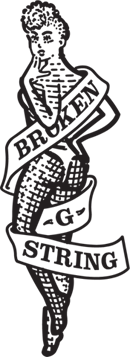
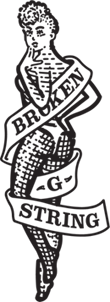
img fix gah

diff --git a/app/assets/stylesheets/core.css b/app/assets/stylesheets/core.css
@@ -35,6 +35,7 @@ html.home{
 }
 
 #home{
+	margin-top: 25px;
 	padding-bottom: 50px;
 }
 
@@ -44,13 +45,14 @@ html.home{
 }
 
 #home .hero{
-	/*width: 100%;*/
-	height: 450px;
+	width: 500px;
+	height: 352px;
 	background: url(/assets/refer/Grefer/home_logo.png) center center no-repeat;
-	background-size: 450px 300px;
+	background-size: 500px 352px;
 	overflow: hidden;
 	position: relative;
 	letter-spacing: .09em;
+	margin-top: 15px;
 	margin: 0 auto;
 }
 
@@ -308,10 +310,10 @@ html.home{
 }
 
 #refer .mammoth{
-	width: 130px;
-	height: 357px;
+	width: 110px;
+	height: 302px;
 	background: url(/assets/refer/Grefer/model.png) 0 0 no-repeat;
-	background-size: 130px 357px;
+	background-size: 110px 302px;
 	overflow: hidden;
 	margin-top: 5px;
 	margin-left: 25%;
